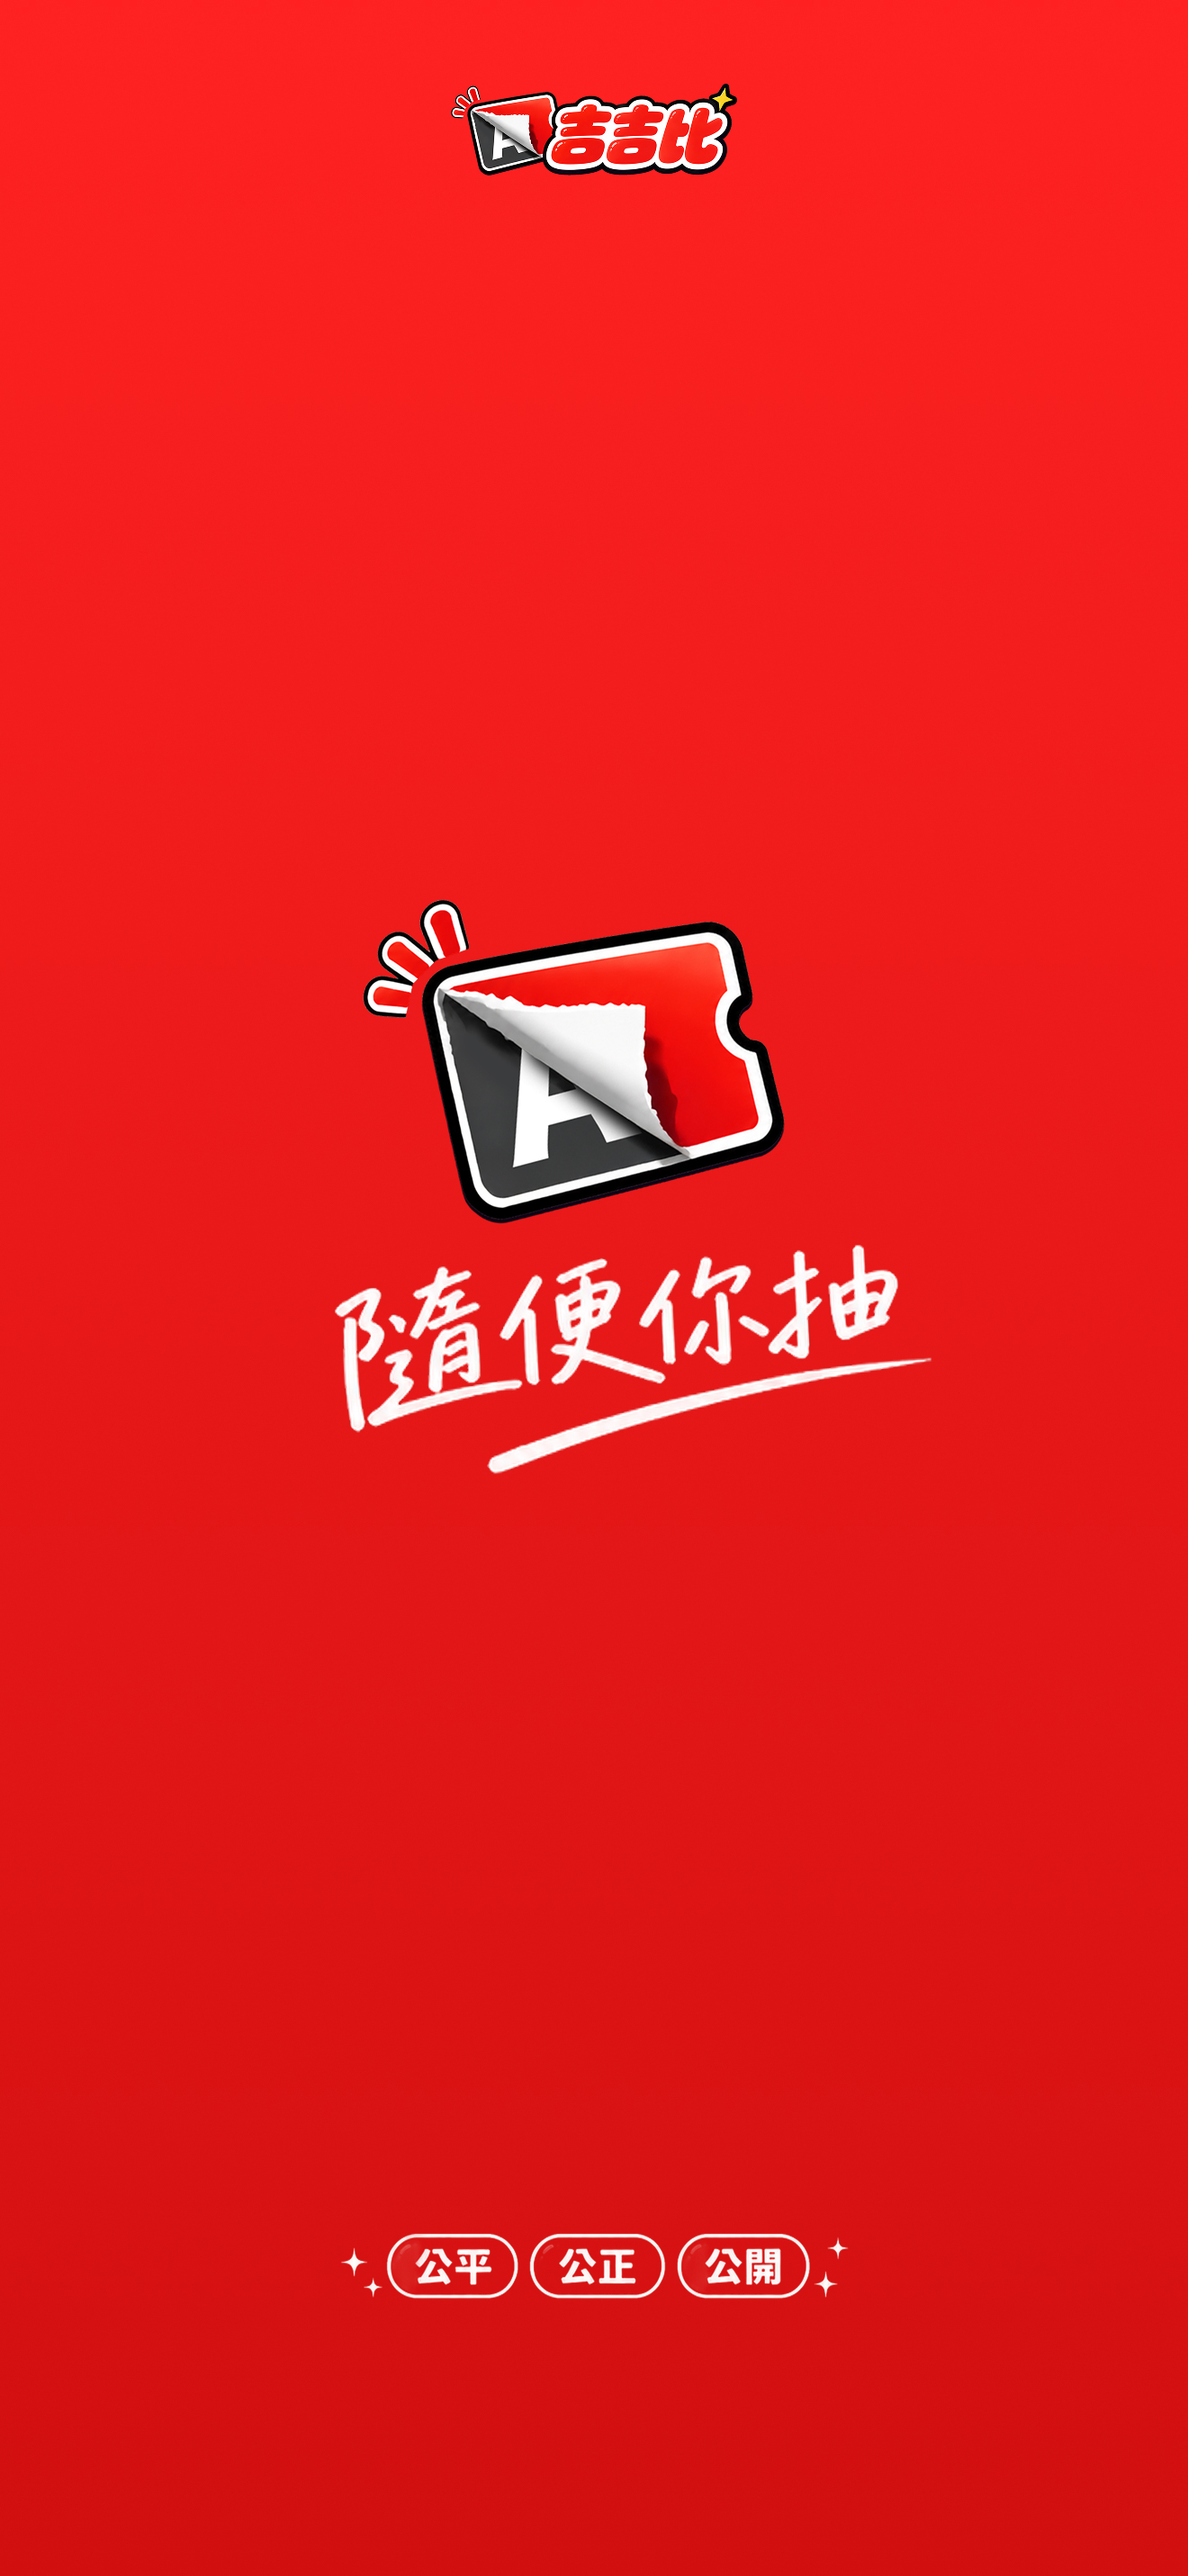
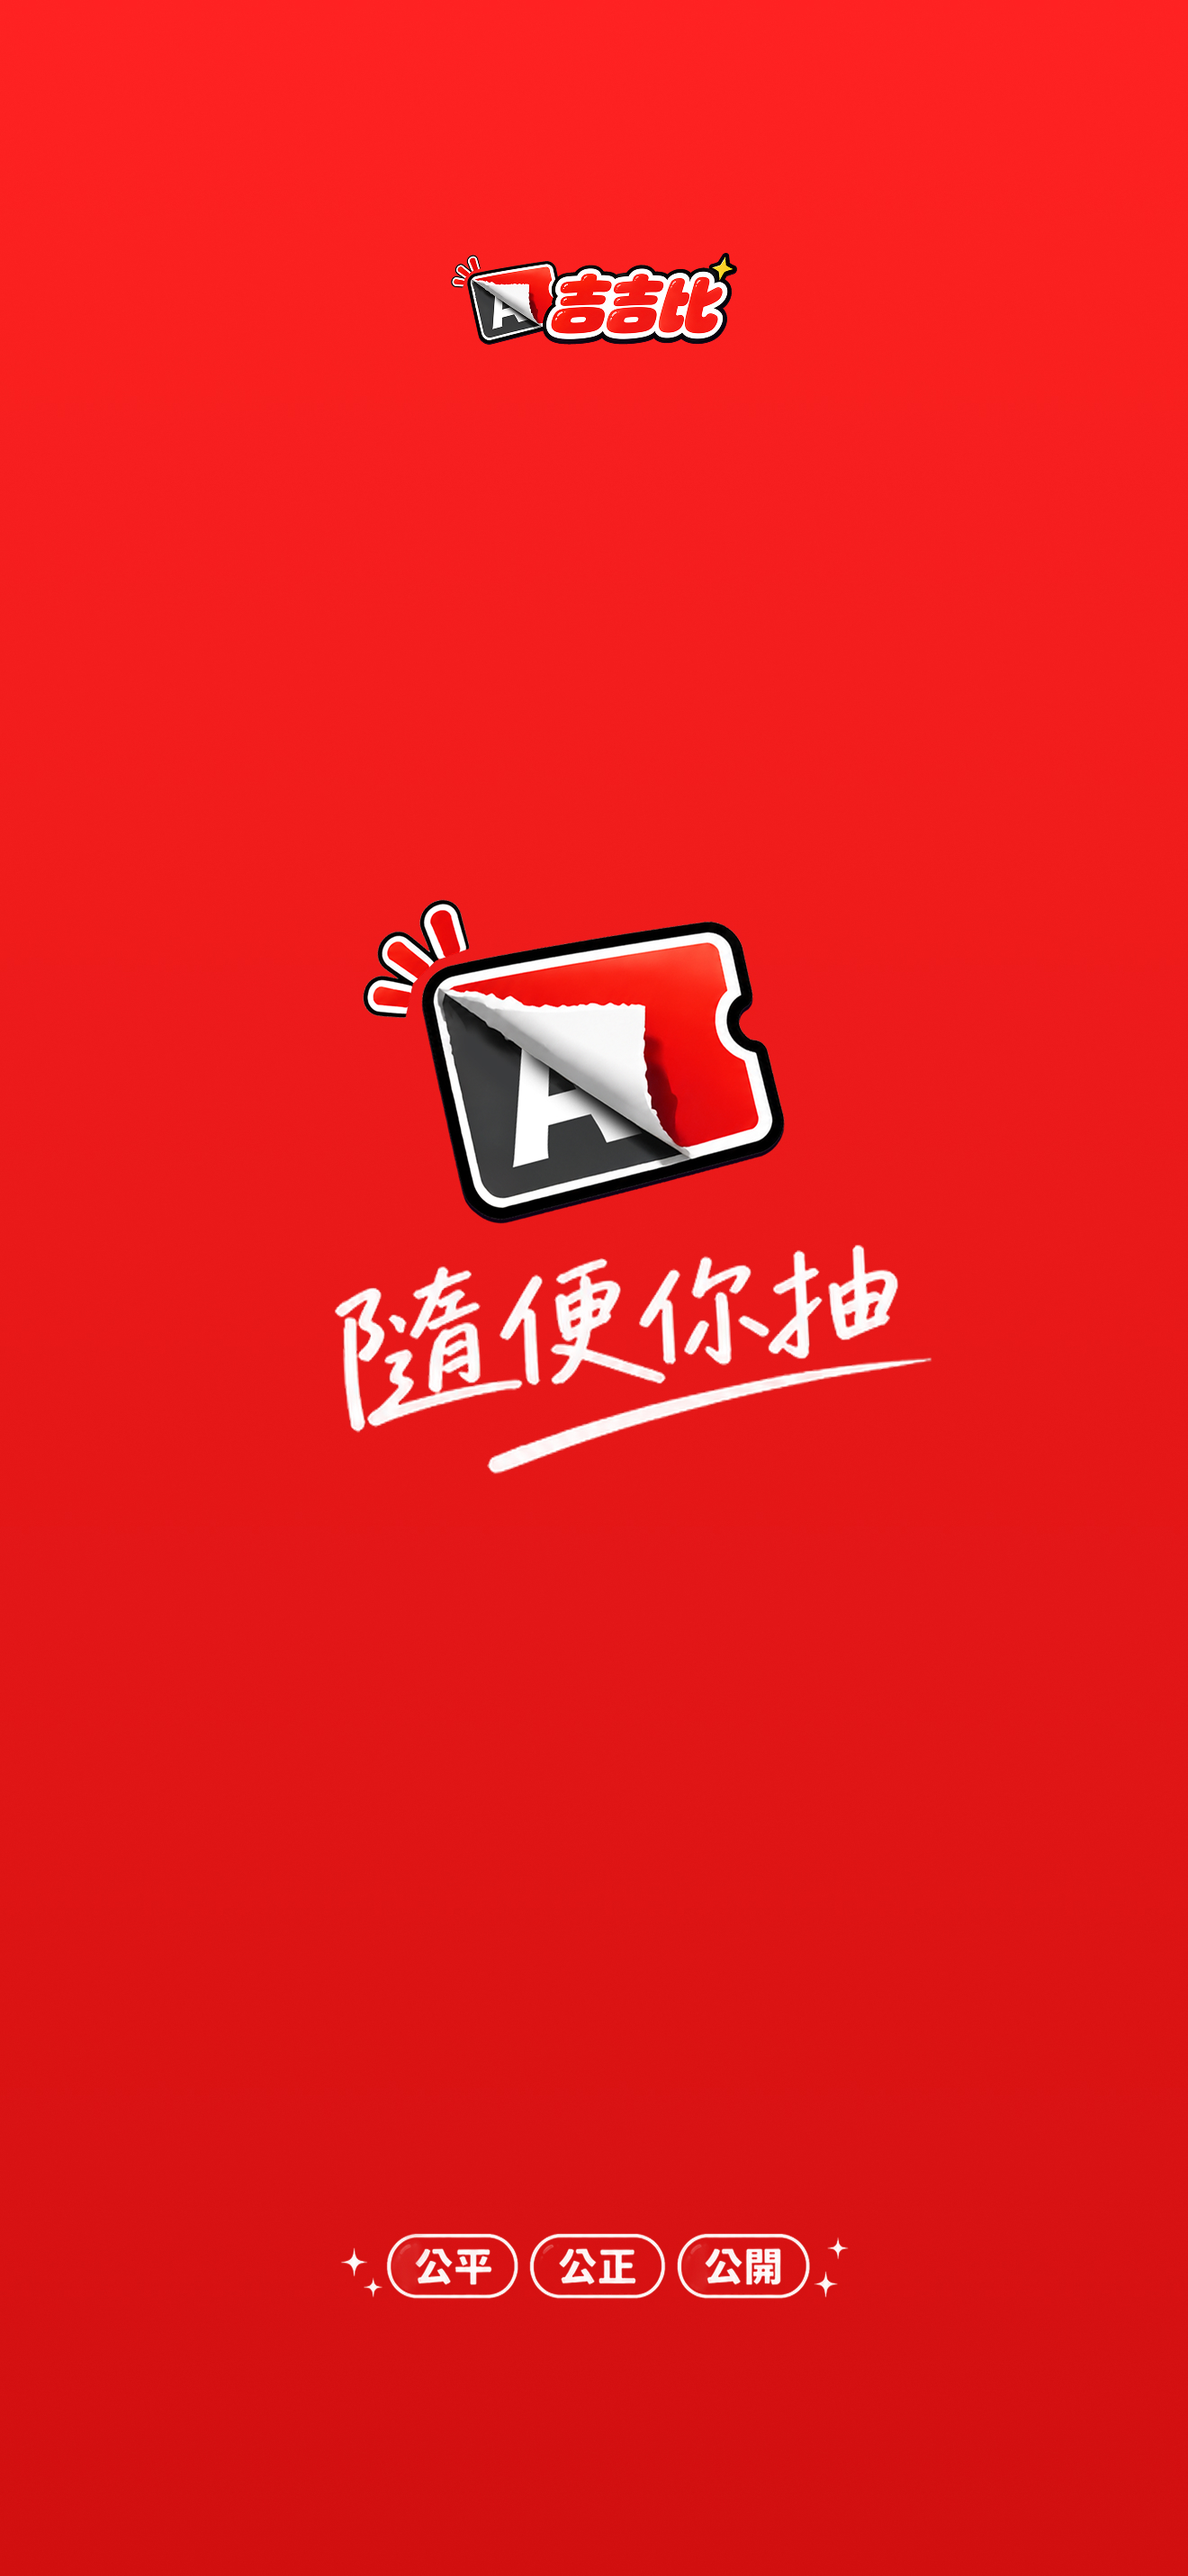
feat(brand): 換 iOS 啟動圖；會員中心動態島加白霧
- brand/manual/app-launch.jpg 換新版（老闆重出），跑 brand:sync 進
  ios/App/App/Assets.xcassets/Splash.imageset/splash.jpg，模擬器已驗過
- 會員中心的 TopFadeBlur 由 tint="none" 改 "light"：原本只糊不帶色，
  動態島後面就是一整塊實心主題色，時間與電量壓在上面很硬，帶白霧才化得開

Changed region(s): [[0.3727, 0.0311, 0.6212, 0.1555]]

diff --git a/frontend/app/profile/page.tsx b/frontend/app/profile/page.tsx
@@ -6976,9 +6976,11 @@ function ProfileContent() {
           
           {/* 1. Mobile Menu View (Only shown on mobile when no tab is active) */}
           <div className={cn("md:hidden col-span-1", isMobileDetailOpen && "hidden")}>
-            {/* 動態島底下的漸層毛玻璃（老闆 2026-08-22）：橘底本來就有色，只模糊不帶色。
-                掛在 data-ptr-content 外面，下拉更新不會拖到它 */}
-            <TopFadeBlur />
+            {/* 動態島底下的漸層毛玻璃（老闆 2026-08-22）。掛在 data-ptr-content 外面，
+                下拉更新不會拖到它。
+                tint="light"（老闆 2026-08-28）：原本 none 只糊不帶色，動態島後面就是
+                一整塊實心主題色，時間與電量壓在上面很硬。帶一層白霧才化得開。 */}
+            <TopFadeBlur tint="light" />
             {/* 橘色動態背景：**fixed**，不跟著捲動、也不被下拉更新拖走
                 （老闆 2026-08-21：「往下捲動時橘色動態背景不要跟著被捲動，跟排行榜一樣」）。
                 排行榜的流體背景就是 fixed 當純背景、內容在上面捲，這裡照做，只鋪頭圖
